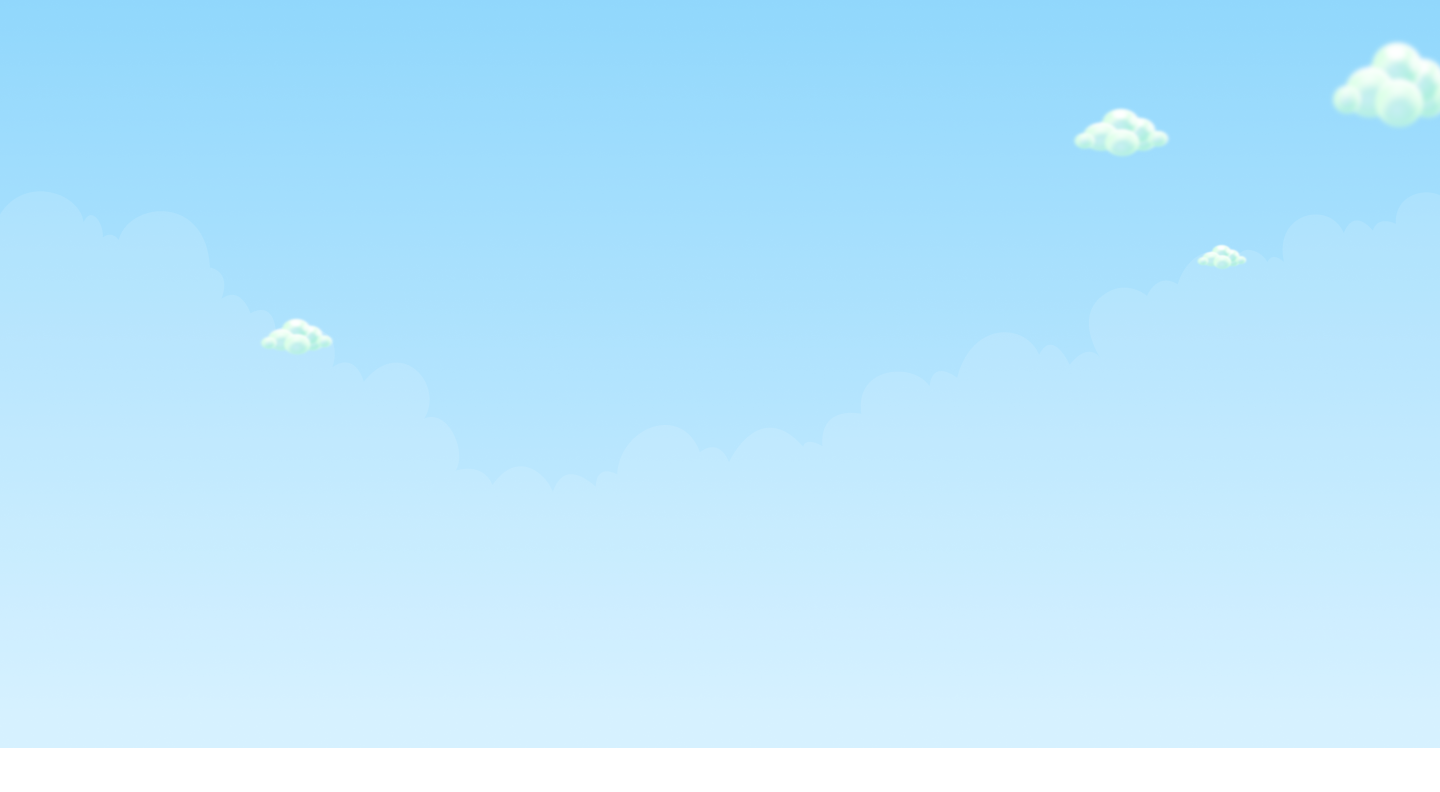
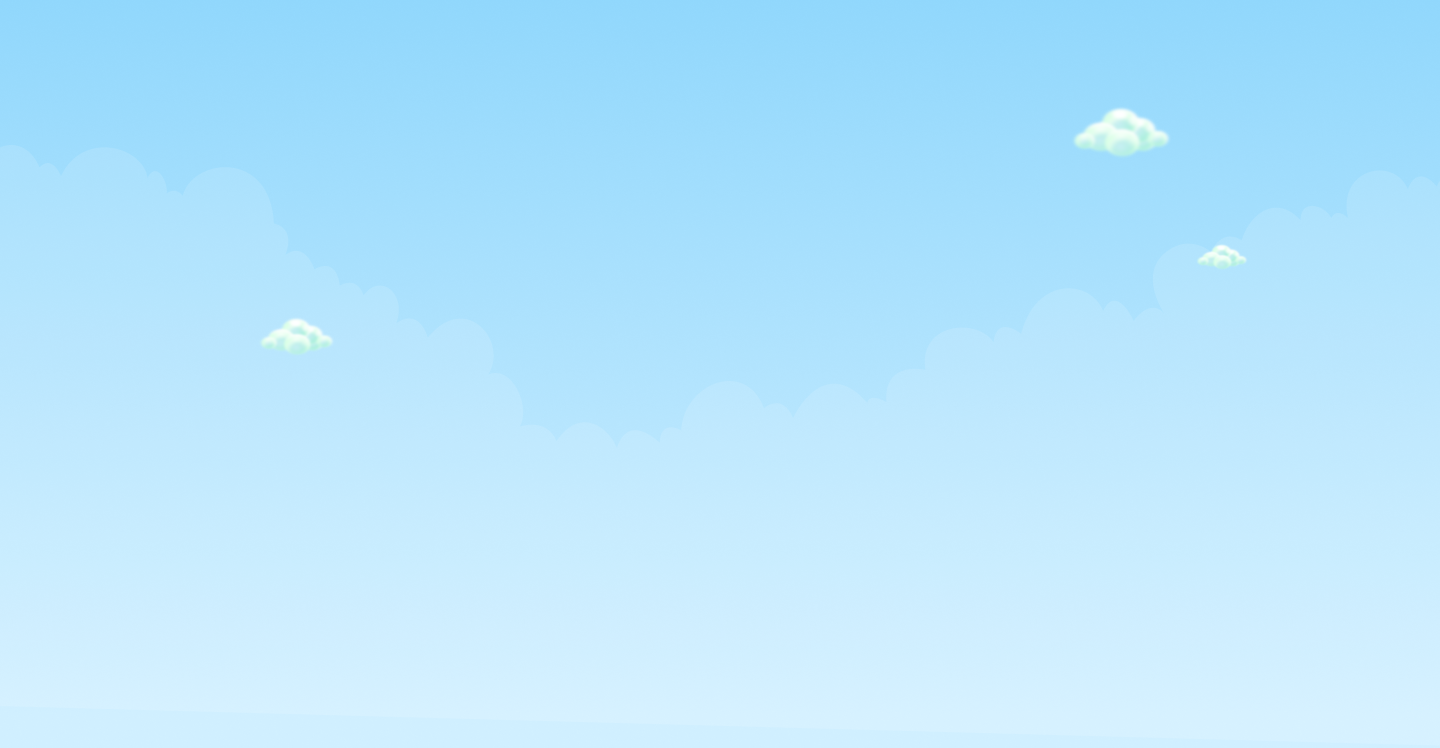
some changes in header

diff --git a/index.html b/index.html
@@ -43,7 +43,7 @@
                     class=" green1 text_shadow-gr">Capys</span></p>
         </div>
     </div>
-    <header class="bg-img-header min_vh_90 min_vh_110 d-flex flex-column position-relative pb-md-0">
+    <header class="bg-img-header min_vh_90 min_vh_110 min_vh_80 d-flex flex-column position-relative pb-md-0">
         <nav class="py-3">
             <div class="container">
                 <div class="d-flex align-items-center justify-content-between">
@@ -137,7 +137,7 @@
                 </div>
             </div>
         </nav>
-        <div class="flex-grow-1 d-flex align-items-start justify-content-center">
+        <div class="flex-grow-1 d-flex align-items-start justify-content-center position-relative z_index_1">
             <div class="container">
                 <div class="d-flex align-items-center justify-content-center pb-4">
                     <h2 class="mb-0 fs-xl fw-400 ff-cherry-bomb text_shadow_gray1 orange1 lh-103">Cozy</h2>
@@ -394,7 +394,7 @@
         <div class="container d-flex align-items-center justify-content-center flex-column">
             <h2 class="mb-0 ff-cherry-bomb fs-lg fw-400 text-center lh-103 text-white pt-5 text_shadow-or1 pb-5">FAQ’s
             </h2>
-            <div class="accordion w-100 accordion-flush" id="accordionFlushExample">
+            <div class="accordion w-100 accordion-flush position-relative z_index_1" id="accordionFlushExample">
                 <div class="accordion-item mb-3">
                     <h2 class="accordion-header" id="flush-headingOne">
                         <button class="accordion-button collapsed justify-content-between" type="button"

diff --git a/assets/css/style.css b/assets/css/style.css
@@ -95,7 +95,7 @@
 }
 
 .four-puppy1 {
-    bottom: 5%;
+    bottom: 2%;
     left: 0;
     right: 0;
 }
@@ -311,8 +311,8 @@
     margin-bottom: -2px;
 }
 
-.min_vh_90 {
-    min-height: 90vh;
+.min_vh_80 {
+    min-height: 80vh;
 }
 
 .overflow_hidden {
@@ -335,6 +335,10 @@
         left: 0;
         right: 0;
         bottom: -4%;
+    }
+
+    .min_vh_90 {
+        min-height: 90vh;
     }
 }
 
@@ -409,6 +413,14 @@
 
     .mw-655 {
         max-width: 655px;
+    }
+}
+
+@media (max-width:1200px) and (min-width:992px) {
+    .four-puppy1 {
+        bottom: 2%;
+        left: 0;
+        right: 0;
     }
 }
 
